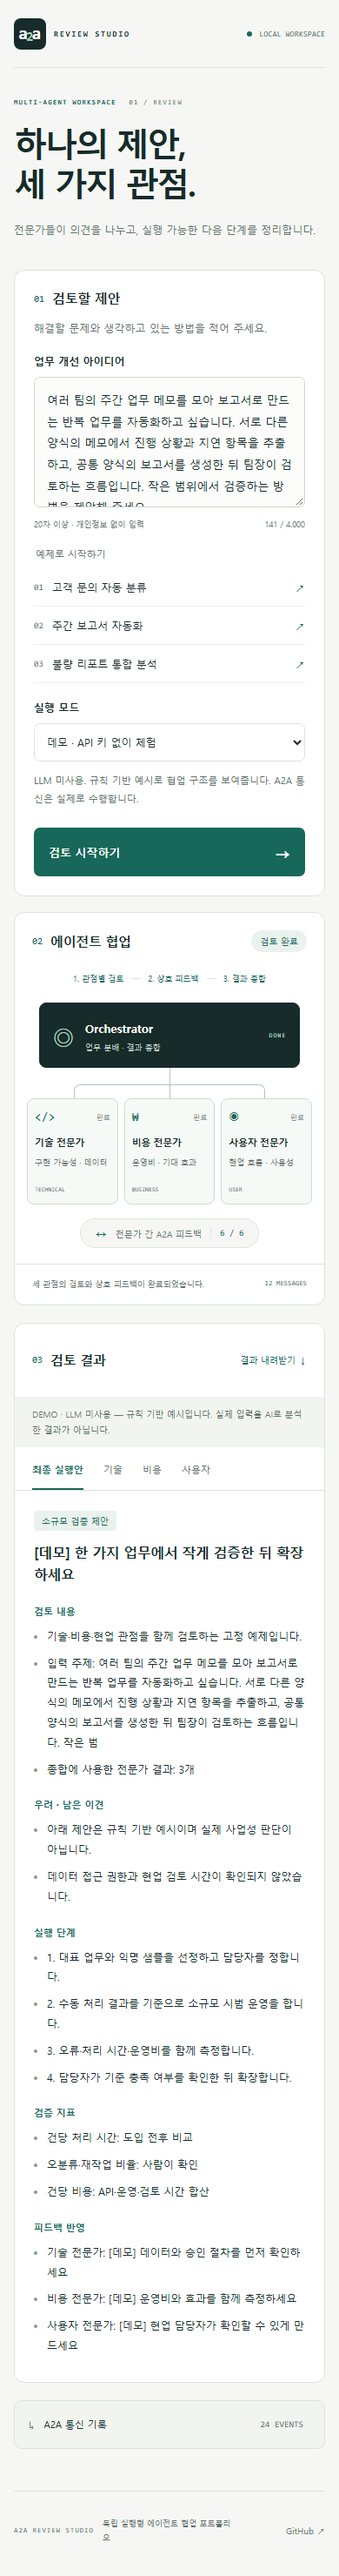
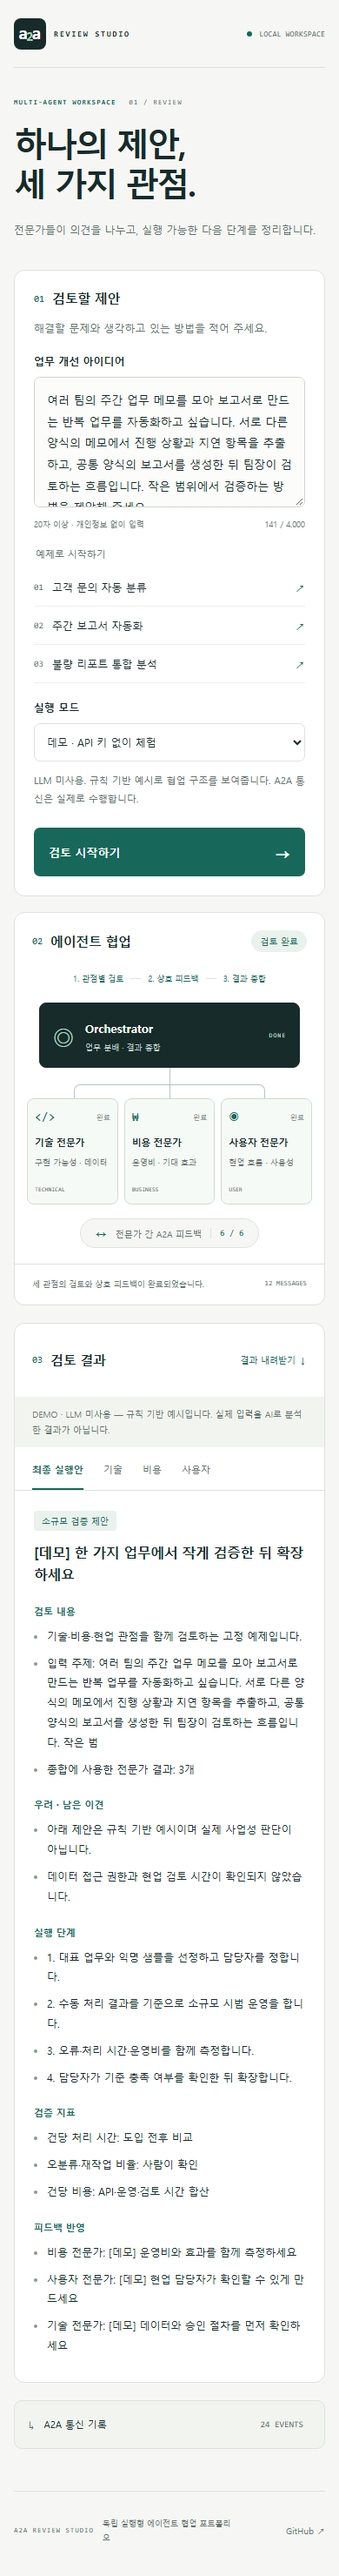
docs: remove organization-specific portfolio references

Changed region(s): [[0.2462, 0.8703, 0.8923, 0.9014], [0.1231, 0.8703, 0.2154, 0.9324]]

diff --git a/review_studio/static/index.html b/review_studio/static/index.html
@@ -45,7 +45,7 @@
             <button id="start" type="submit" class="primary" disabled><span>검토 시작하기</span><span aria-hidden="true">→</span></button>
             <p id="form-error" class="error" role="alert" hidden></p>
           </form>
-          <div class="brief-foot"><span class="mini-icon" aria-hidden="true">↳</span><p>사내 전용 도구 없이 실행됩니다.<br>결과는 사람이 확인하고 활용하세요.</p></div>
+          <div class="brief-foot"><span class="mini-icon" aria-hidden="true">↳</span><p>결과는 사람이 확인하고 활용하세요.</p></div>
         </aside>
 
         <div class="review-area">

diff --git a/docs/architecture.md b/docs/architecture.md
@@ -45,5 +45,4 @@
 
 ## 구현 선택
 
-교안의 FastA2A·Deep Agents 대신 공식 A2A SDK와 직접적인 Claude Messages API 연결을 사용했다. 이번 목적은 표준 통신 경계와 피드백 흐름을 작고 읽기 쉬운 코드로 설명하는 것이므로 별도 Agent 프레임워크, 벡터 DB, 도구 실행 계층은 추가하지 않았다.
-
+공식 A2A SDK와 Claude Messages API 연결을 사용했다. 이번 목적은 표준 통신 경계와 피드백 흐름을 작고 읽기 쉬운 코드로 설명하는 것이므로 별도 Agent 프레임워크, 벡터 DB, 도구 실행 계층은 추가하지 않았다.

diff --git a/docs/implementation-plan.md b/docs/implementation-plan.md
@@ -9,7 +9,7 @@
 
 ## Global constraints
 
-- Separate `a2a-review-studio` repository; existing teaching workspace is untouched.
+- Standalone `a2a-review-studio` repository.
 - Three experts: technical, business, user. One revision round; each expert requests feedback from the other two.
 - Inputs 20–4000 characters; 4 simultaneous runs; 50 retained runs; 1-hour retention; 180-second run deadline.
 - All A2A destinations fixed to the configured loopback base URL; process-local secret authenticates internal execution. Cards declare this requirement. No arbitrary URL or code execution.

diff --git a/AGENTS.md b/AGENTS.md
@@ -1,6 +1,6 @@
 # A2A Review Studio
 
-Standalone Korean portfolio app showing real A2A HTTP collaboration between three review agents. No company material or internal API dependencies.
+Standalone Korean portfolio app showing real A2A HTTP collaboration between three review agents.
 
 - `review_studio/`: FastAPI app, A2A SDK endpoints/client, bounded orchestration, demo/Claude providers.
 - `review_studio/static/`: dependency-free responsive browser UI.
